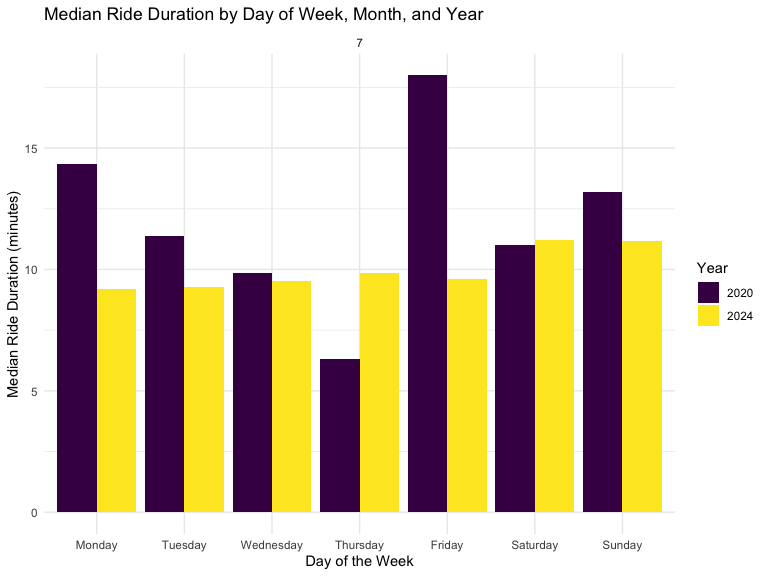
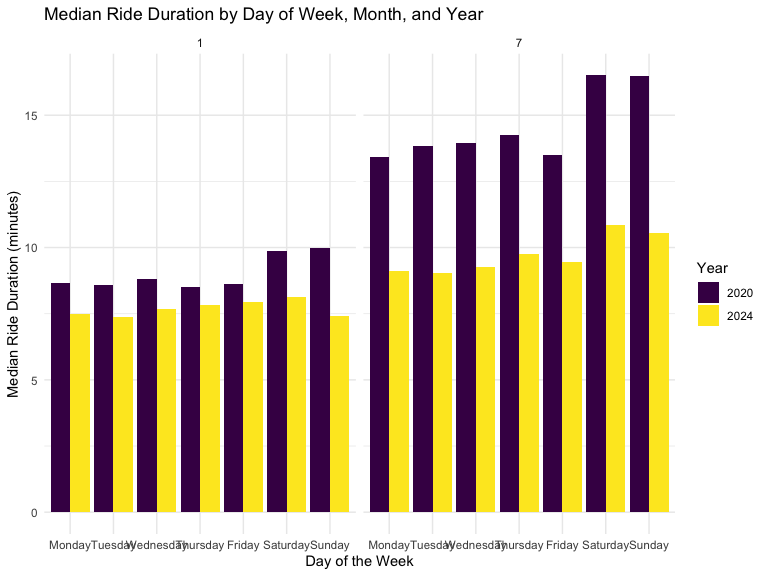
update

diff --git a/p8105_hw3_sl5685.md b/p8105_hw3_sl5685.md
@@ -247,7 +247,8 @@ to females is the same.
 
 ``` r
 # Load the data
-jan_2020 = read_csv("data/Jan 2020 Citi.csv")
+jan_2020 = read_csv("data/Jan 2020 Citi.csv") |>
+  mutate(year = 2020, month = 1)
 ```
 
     ## Rows: 12420 Columns: 7
@@ -260,7 +261,8 @@ jan_2020 = read_csv("data/Jan 2020 Citi.csv")
     ## ℹ Specify the column types or set `show_col_types = FALSE` to quiet this message.
 
 ``` r
-jan_2024 = read_csv("data/Jan 2024 Citi.csv")
+jan_2024 = read_csv("data/Jan 2024 Citi.csv") |>
+  mutate(year = 2024, month = 1)
 ```
 
     ## Rows: 18861 Columns: 7
@@ -273,7 +275,8 @@ jan_2024 = read_csv("data/Jan 2024 Citi.csv")
     ## ℹ Specify the column types or set `show_col_types = FALSE` to quiet this message.
 
 ``` r
-july_2020 = read_csv("data/July 2020 Citi.csv")
+july_2020 = read_csv("data/July 2020 Citi.csv") |>
+  mutate(year = 2020, month = 7)
 ```
 
     ## Rows: 21048 Columns: 7
@@ -286,7 +289,8 @@ july_2020 = read_csv("data/July 2020 Citi.csv")
     ## ℹ Specify the column types or set `show_col_types = FALSE` to quiet this message.
 
 ``` r
-july_2024 = read_csv("data/July 2024 Citi.csv")
+july_2024 = read_csv("data/July 2024 Citi.csv") |>
+  mutate(year = 2024, month = 7)
 ```
 
     ## Rows: 47156 Columns: 7
@@ -301,9 +305,7 @@ july_2024 = read_csv("data/July 2024 Citi.csv")
 ``` r
 # Combine data into one dataframe
 citi_bike_data = bind_rows(jan_2020, jan_2024, july_2020, july_2024) |>
-  janitor::clean_names() |>
-  mutate(year = ifelse(grepl("2020", ride_id), 2020, 2024),
-         month = ifelse(grepl("Jan", ride_id), 1, 7))
+  janitor::clean_names()
 ```
 
 ``` r
@@ -322,13 +324,17 @@ rides_summary = citi_bike_data |>
 rides_summary
 ```
 
-    ## # A tibble: 4 × 4
+    ## # A tibble: 8 × 4
     ##    year month member_casual total_rides
     ##   <dbl> <dbl> <chr>               <int>
-    ## 1  2020     7 casual                  5
-    ## 2  2020     7 member                 14
-    ## 3  2024     7 casual              19618
-    ## 4  2024     7 member              79848
+    ## 1  2020     1 casual                984
+    ## 2  2020     1 member              11436
+    ## 3  2020     7 casual               5637
+    ## 4  2020     7 member              15411
+    ## 5  2024     1 casual               2108
+    ## 6  2024     1 member              16753
+    ## 7  2024     7 casual              10894
+    ## 8  2024     7 member              36262
 
 Members ride more often than non-members. And the number of rides in
 2024 will be much higher than in 2020, regardless of membership or not.
@@ -347,13 +353,13 @@ most_popular_stations
 ```
 
     ## # A tibble: 5 × 2
-    ##   start_station_name      total_rides
-    ##   <chr>                         <int>
-    ## 1 W 21 St & 6 Ave                 427
-    ## 2 University Pl & E 14 St         348
-    ## 3 12 Ave & W 40 St                344
-    ## 4 West St & Chambers St           339
-    ## 5 1 Ave & E 68 St                 333
+    ##   start_station_name       total_rides
+    ##   <chr>                          <int>
+    ## 1 Pier 61 at Chelsea Piers         163
+    ## 2 University Pl & E 14 St          155
+    ## 3 W 21 St & 6 Ave                  152
+    ## 4 West St & Chambers St            150
+    ## 5 W 31 St & 7 Ave                  146
 
 ``` r
 # Plot to investigate the effects of day of the week, month, and year on median ride duration
@@ -381,8 +387,9 @@ median_duration_plot
 ```
 
 <img src="p8105_hw3_sl5685_files/figure-gfm/unnamed-chunk-16-1.png" width="90%" />
-In 2020, Fridays had the most riding time, and Thursday the least, but
-in 2024, riding time was roughly the same every day.
+In 2020, Saturday and Sunday riding time was longer. And there was more
+riding time in 2020 than in 2024. In 2024, riding time was roughly the
+same every day.
 
 ``` r
 # Plot to investigate the impact of month, membership status, and bike type on ride duration distribution for 2024 data
@@ -405,4 +412,4 @@ ride_duration
 <img src="p8105_hw3_sl5685_files/figure-gfm/unnamed-chunk-17-1.png" width="90%" />
 As can be seen from the chart, the riding duration of both types of
 bikes is mostly less than 50 minutes. Members ride more frequently,
-while more people choose classic bicycles.
+while more people choose electric bicycles.
